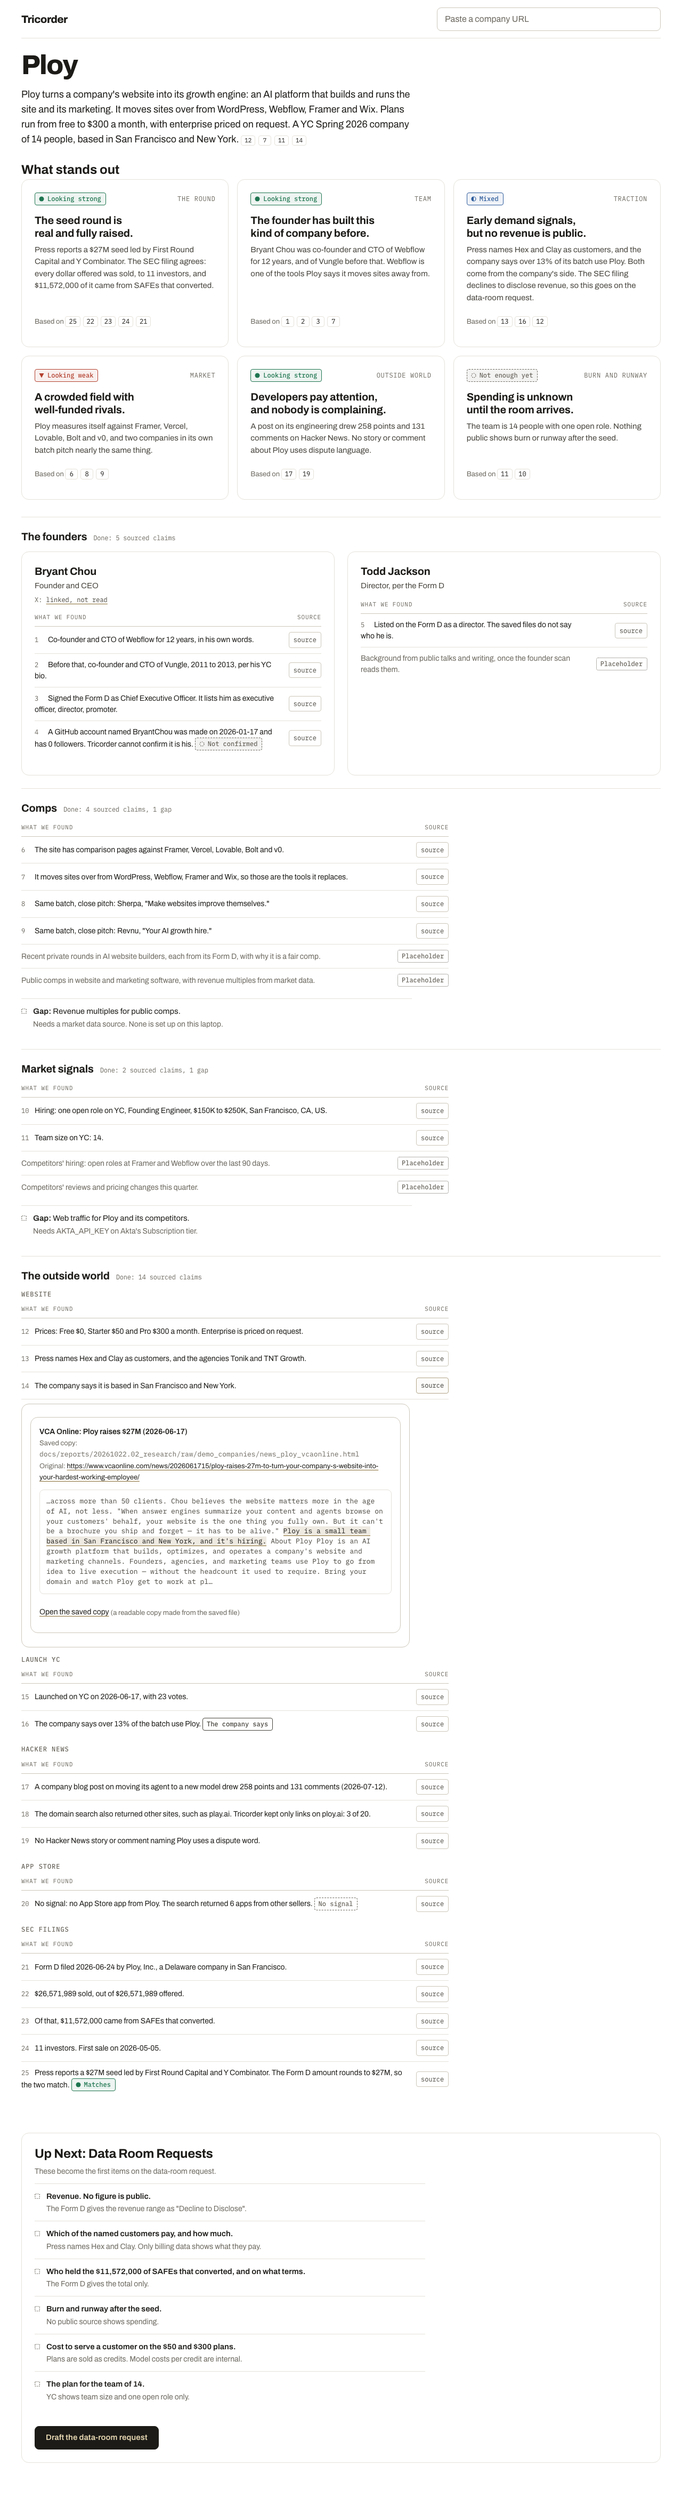
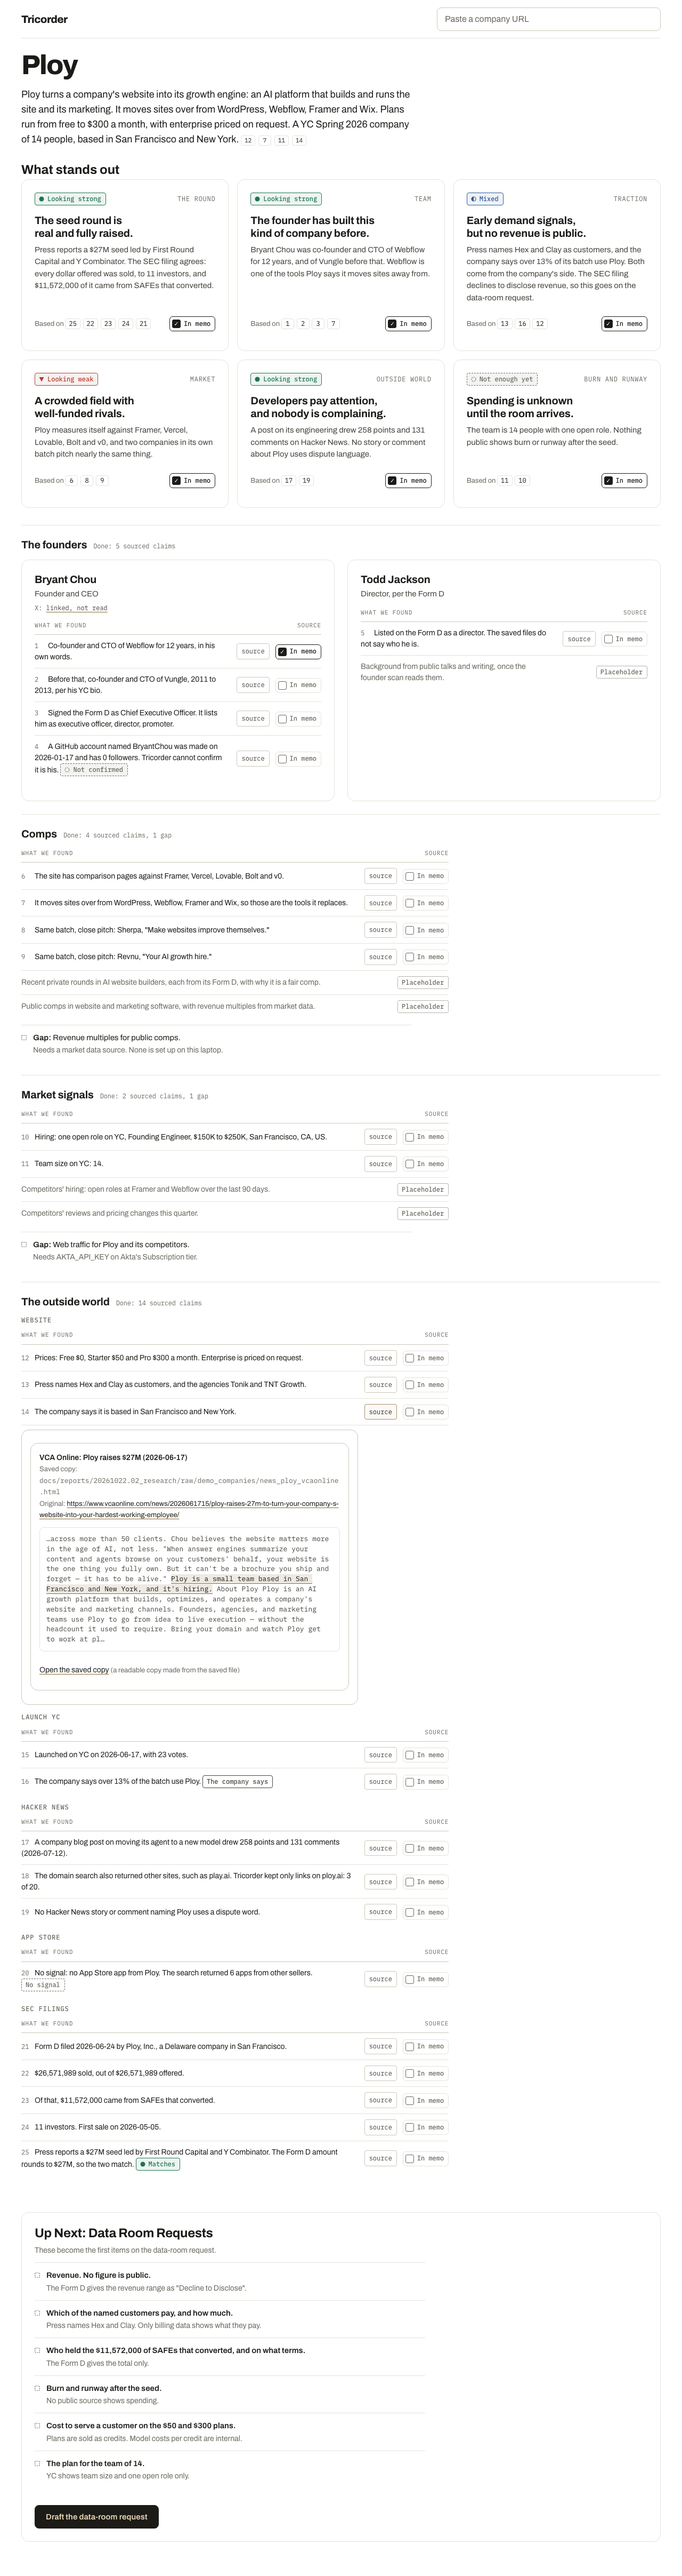
In memo toggle on every readout insight and evidence row (app.js, app.css, check, index.html loads memo_picks.js)

diff --git a/docs/features/20261024.02_first_steps_ui/prototype/app.js b/docs/features/20261024.02_first_steps_ui/prototype/app.js
@@ -213,7 +213,7 @@
     if (c.placeholder) {
       return `<tr class="claim ph wait"><td class="claim-text">${esc(c.text)}</td><td class="claim-src"><span class="tc-mark ph" title="Not researched yet">Placeholder</span></td></tr>`;
     }
-    return `<tr class="claim wait" id="ev-${c._n}"><td class="claim-text"><span class="ev-n">${c._n}</span> ${esc(c.text)} ${KIND[c.kind] || ""}</td><td class="claim-src">${chip(c.source, c)}</td></tr>`;
+    return `<tr class="claim wait" id="ev-${c._n}"><td class="claim-text"><span class="ev-n">${c._n}</span> ${esc(c.text)} ${KIND[c.kind] || ""}</td><td class="claim-src">${chip(c.source, c)}${window.TC_MEMO ? ` ${window.TC_MEMO.toggleHtml("claim:" + c._n)}` : ""}</td></tr>`;
   }
   const MARKS = { strong: ["tc-mark--strong", "Looking strong"], weak: ["tc-mark--weak", "Looking weak"], mixed: ["tc-mark--mixed", "Mixed"], thin: ["tc-mark--thin", "Not enough yet"] };
   function allClaims(R) {
@@ -243,12 +243,12 @@
     const list = (window.TC_INSIGHTS || {})[R.slug] || [];
     if (!list.length) return "";
     const claims = allClaims(R).filter((c) => !c.placeholder);
-    const cards = list.map((ins) => {
+    const cards = list.map((ins, idx) => {
       const nums = [...new Set(ins.refs.map((r) => (claims.find((c) => c.text.includes(r)) || {})._n).filter(Boolean))];
       const [cls, label] = MARKS[ins.mark] || MARKS.thin;
       return `<article class="tc-card insight wait"><div class="tc-card-head"><span class="tc-mark ${cls}">${label}</span><span class="piece">${esc(ins.piece)}</span></div>
         <h3>${esc(ins.title)}</h3><p>${esc(ins.text)}</p>
-        <p class="based">Based on ${nums.map((n) => `<a class="ev-ref" href="#ev-${n}">${n}</a>`).join(" ")}</p></article>`;
+        <p class="based"><span>Based on ${nums.map((n) => `<a class="ev-ref" href="#ev-${n}">${n}</a>`).join(" ")}</span>${window.TC_MEMO ? window.TC_MEMO.toggleHtml("insight:" + idx) : ""}</p></article>`;
     }).join("");
     return `<section class="insights" aria-label="What stands out"><h2>What stands out</h2><div class="insight-grid">${cards}</div></section>`;
   }

diff --git a/docs/features/20261024.02_first_steps_ui/prototype/app.css b/docs/features/20261024.02_first_steps_ui/prototype/app.css
@@ -202,3 +202,13 @@ body:has(dialog[open]) { overflow: hidden; }
 @media (prefers-reduced-motion: reduce) { .ask.flash { animation: none; background: var(--tc-band); } }
 #app > #notify:has(.notice) { position: sticky; top: 0; z-index: 5; background: var(--tc-ground); padding: var(--tc-space-2) 0; }
 #app > #notify .notice { box-shadow: 0 8px 24px rgba(0, 0, 0, 0.12); }
+
+/* The In memo toggle. */
+.insight .based { display: flex; align-items: center; justify-content: space-between; gap: var(--tc-space-2); flex-wrap: wrap; }
+.memo-pick { white-space: nowrap; display: inline-flex; align-items: center; gap: 6px; min-height: 28px; padding: 2px 8px 2px 4px; border: var(--tc-hair) solid var(--tc-rule); border-radius: 6px; background: transparent; color: var(--tc-ink-3); font: 500 12px/1.2 var(--tc-font-mono); cursor: pointer; vertical-align: middle; }
+.memo-pick:hover { border-color: var(--tc-ink-3); color: var(--tc-ink); }
+.memo-pick:focus-visible { outline: 2px solid var(--tc-accent); outline-offset: 2px; }
+.memo-box { display: inline-flex; align-items: center; justify-content: center; width: 16px; height: 16px; border: 1.5px solid var(--tc-ink-3); border-radius: 3px; font-size: 12px; line-height: 1; }
+.memo-pick.on { color: var(--tc-ink); border-color: var(--tc-ink); }
+.memo-pick.on .memo-box { background: var(--tc-ink); border-color: var(--tc-ink); color: var(--tc-ground); }
+.claims .claim-src .memo-pick { margin-left: var(--tc-space-2); }

diff --git a/docs/features/20261024.02_first_steps_ui/prototype/index.html b/docs/features/20261024.02_first_steps_ui/prototype/index.html
@@ -14,9 +14,12 @@
     <script src="steps_shared.js"></script>
     <script src="step5.js"></script>
     <script src="step6.js"></script>
+    <script src="vendor/plotly-2.35.2.min.js"></script>
+    <script src="reports.js"></script>
     <script src="memo.js"></script>
     <script src="insights.js"></script>
     <script src="room_view.js"></script>
+    <script src="memo_picks.js"></script>
     <script src="app.js"></script>
   </body>
 </html>

diff --git a/docs/features/20261024.02_first_steps_ui/prototype/check_prototype.py b/docs/features/20261024.02_first_steps_ui/prototype/check_prototype.py
@@ -47,6 +47,18 @@ with sync_playwright() as p:
         check(pg.locator(".section .claim:visible").count() > 5 and pg.locator(".insights:visible").count() == 1 and pg.locator("#roomgaps li:visible").count() > 0,
               "every section filled in whole")
         check(pg.locator(".steps, .back, .stepbar, .step-bar").count() == 0, "no step bar or back links")
+        ins = pg.locator(".insight .memo-pick")
+        n_ins = pg.locator(".insight").count()
+        check(ins.count() == n_ins and n_ins > 0 and ins.evaluate_all("els => els.every(e => e.getAttribute('aria-checked') === 'true')"), f"every insight starts In memo ({n_ins})")
+        rows = pg.locator(".claim:not(.ph) .memo-pick")
+        check(rows.count() > 5 and rows.evaluate_all("els => els.every(e => e.getAttribute('aria-checked') === 'false')"), f"plain evidence rows start out of the memo ({rows.count()})")
+        rows.first.click()
+        check(rows.first.get_attribute("aria-checked") == "true" and pg.evaluate("TC_MEMO.get('claim:1')") is True and any(x["key"] == "claim:1" for x in pg.evaluate("TC_MEMO.list(true)")), "clicking a row puts it in the memo")
+        ins.first.focus()
+        pg.keyboard.press("Space")
+        check(ins.first.get_attribute("aria-checked") == "false" and pg.evaluate("TC_MEMO.get('insight:0')") is False, "the toggle works from the keyboard")
+        check("claim:1" in pg.evaluate("localStorage.getItem('tricorder.proto.memo.' + TC.S.research.slug)"), "choices are kept in localStorage")
+        ins.first.click()
         check("prototype" not in pg.locator("body").inner_text().lower(), "no Prototype label on the readout")
         chips = pg.locator(".claims .srcchip")
         check(chips.count() > 5, f"source chips present ({chips.count()})")
